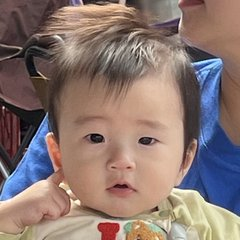
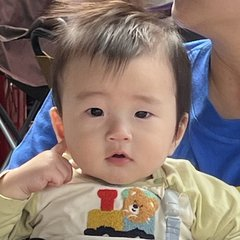
タイチャンのアイコンを引きの写真に差し替え
Claude-Session: https://claude.ai/code/session_01L2qGa8WifSKzkuSNuRSfyg

diff --git a/index.html b/index.html
@@ -10,7 +10,7 @@
 <link rel="preconnect" href="https://fonts.googleapis.com">
 <link rel="preconnect" href="https://fonts.gstatic.com" crossorigin>
 <link href="https://fonts.googleapis.com/css2?family=Dela+Gothic+One&family=M+PLUS+Rounded+1c:wght@500;700;800&display=swap" rel="stylesheet">
-<link rel="stylesheet" href="style.css?v=20261108b">
+<link rel="stylesheet" href="style.css?v=20261108c">
 </head>
 <body class="locked">
 <svg width="0" height="0" style="position:absolute" aria-hidden="true"><defs><symbol id="i-cal" viewBox="0 0 48 48"><rect x="6" y="10" width="36" height="32" rx="5" fill="#FFFDF7" stroke="#221E1A" stroke-width="3" stroke-linejoin="round" stroke-linecap="round"/><path d="M6 21v-6a5 5 0 0 1 5-5h26a5 5 0 0 1 5 5v6z" fill="#E63B2E" stroke="#221E1A" stroke-width="3" stroke-linejoin="round" stroke-linecap="round"/><path d="M16 6v8M32 6v8" stroke="#221E1A" stroke-width="3" stroke-linejoin="round" stroke-linecap="round"/><g fill="#FFC93C" stroke="#221E1A" stroke-width="3" stroke-linejoin="round" stroke-linecap="round" stroke-width="2"><rect x="12" y="26" width="6" height="5" rx="1"/><rect x="21" y="26" width="6" height="5" rx="1"/><rect x="12" y="34" width="6" height="5" rx="1"/></g><circle cx="33" cy="33" r="5" fill="#FF8FB1" stroke="#221E1A" stroke-width="3" stroke-linejoin="round" stroke-linecap="round" stroke-width="2"/></symbol><symbol id="i-bowl" viewBox="0 0 48 48"><path d="M11 24c2-9 24-9 26 0" fill="#FFFDF7" stroke="#221E1A" stroke-width="3" stroke-linejoin="round" stroke-linecap="round"/><path d="M28 21L44 6M32 22L46 10" stroke="#E63B2E" stroke-width="3" stroke-linecap="round"/><path d="M5 24h38a19 15 0 0 1-38 0z" fill="#26357A" stroke="#221E1A" stroke-width="3" stroke-linejoin="round" stroke-linecap="round"/><rect x="17" y="38" width="14" height="5" rx="2" fill="#26357A" stroke="#221E1A" stroke-width="3" stroke-linejoin="round" stroke-linecap="round"/><path d="M12 30h24" stroke="#FFFDF7" stroke-width="2.5" stroke-linecap="round"/></symbol><symbol id="i-onsen" viewBox="0 0 48 48"><path d="M7 28h34a17 13 0 0 1-34 0z" fill="#9fd3e6" stroke="#221E1A" stroke-width="3" stroke-linejoin="round" stroke-linecap="round"/><path d="M7 28h34" stroke="#221E1A" stroke-width="3" stroke-linejoin="round" stroke-linecap="round"/><g fill="none" stroke="#E63B2E" stroke-width="3.5" stroke-linecap="round"><path d="M15 22c-4-4 4-7 0-11c-2-2 0-4 0-4"/><path d="M24 22c-4-4 4-7 0-11c-2-2 0-4 0-4"/><path d="M33 22c-4-4 4-7 0-11c-2-2 0-4 0-4"/></g></symbol><symbol id="i-train" viewBox="0 0 48 48"><path d="M3 34V19a5 5 0 0 1 5-5h17c12 0 19 7 21 16c.5 3-1 4-3 4H5a2 2 0 0 1-2-2z" fill="#FFFDF7" stroke="#221E1A" stroke-width="3" stroke-linejoin="round" stroke-linecap="round"/><path d="M29 16c7 2 11 6 13 11H30z" fill="#26357A" stroke="#221E1A" stroke-width="3" stroke-linejoin="round" stroke-linecap="round" stroke-width="2"/><path d="M3 29h43" stroke="#26357A" stroke-width="3"/><g fill="#9fd3e6" stroke="#221E1A" stroke-width="3" stroke-linejoin="round" stroke-linecap="round" stroke-width="2"><rect x="8" y="19" width="6" height="5" rx="1"/><rect x="17" y="19" width="6" height="5" rx="1"/></g><path d="M2 41h44" stroke="#221E1A" stroke-width="3" stroke-linejoin="round" stroke-linecap="round"/><circle cx="12" cy="38" r="2" fill="#221E1A"/><circle cx="36" cy="38" r="2" fill="#221E1A"/></symbol><symbol id="i-van" viewBox="0 0 48 48"><path d="M3 12a4 4 0 0 1 4-4h28c3 0 5 2 6.5 4L46 22c1 2 1 3 1 5v8a3 3 0 0 1-3 3H6a3 3 0 0 1-3-3z" fill="#1c1c1f" stroke="#221E1A" stroke-width="3" stroke-linejoin="round" stroke-linecap="round"/><g fill="#5b6b80"><rect x="7" y="12" width="7" height="8" rx="1.5"/><rect x="16" y="12" width="7" height="8" rx="1.5"/><rect x="25" y="12" width="7" height="8" rx="1.5"/><path d="M35 12h2.5l5 8H35z"/></g><rect x="42" y="25" width="4" height="3" rx="1" fill="#FFC93C"/><circle cx="13" cy="38" r="5" fill="#d0d0d0" stroke="#221E1A" stroke-width="3" stroke-linejoin="round" stroke-linecap="round"/><circle cx="37" cy="38" r="5" fill="#d0d0d0" stroke="#221E1A" stroke-width="3" stroke-linejoin="round" stroke-linecap="round"/></symbol><symbol id="i-pin" viewBox="0 0 48 48"><path d="M24 45C14 33 9 27 9 19a15 15 0 0 1 30 0c0 8-5 14-15 26z" fill="#E63B2E" stroke="#221E1A" stroke-width="3" stroke-linejoin="round" stroke-linecap="round"/><circle cx="24" cy="19" r="5.5" fill="#FFFDF7" stroke="#221E1A" stroke-width="3" stroke-linejoin="round" stroke-linecap="round"/></symbol><symbol id="i-ticket" viewBox="0 0 48 48"><path d="M5 13h38v8a4 4 0 0 0 0 8v8H5v-8a4 4 0 0 0 0-8z" fill="#FFC93C" stroke="#221E1A" stroke-width="3" stroke-linejoin="round" stroke-linecap="round"/><path d="M31 15v20" stroke="#221E1A" stroke-width="3" stroke-linejoin="round" stroke-linecap="round" stroke-dasharray="3 4"/><path d="M11 21h14M11 28h10" stroke="#221E1A" stroke-width="3" stroke-linejoin="round" stroke-linecap="round"/></symbol><symbol id="i-sakura" viewBox="0 0 48 48"><path d="M24 24 C17 17 17 9 21 6 L24 9.5 L27 6 C31 9 31 17 24 24z" fill="#FF8FB1" stroke="#221E1A" stroke-width="3" stroke-linejoin="round" stroke-linecap="round" transform="rotate(0 24 24)"/><path d="M24 24 C17 17 17 9 21 6 L24 9.5 L27 6 C31 9 31 17 24 24z" fill="#FF8FB1" stroke="#221E1A" stroke-width="3" stroke-linejoin="round" stroke-linecap="round" transform="rotate(72 24 24)"/><path d="M24 24 C17 17 17 9 21 6 L24 9.5 L27 6 C31 9 31 17 24 24z" fill="#FF8FB1" stroke="#221E1A" stroke-width="3" stroke-linejoin="round" stroke-linecap="round" transform="rotate(144 24 24)"/><path d="M24 24 C17 17 17 9 21 6 L24 9.5 L27 6 C31 9 31 17 24 24z" fill="#FF8FB1" stroke="#221E1A" stroke-width="3" stroke-linejoin="round" stroke-linecap="round" transform="rotate(216 24 24)"/><path d="M24 24 C17 17 17 9 21 6 L24 9.5 L27 6 C31 9 31 17 24 24z" fill="#FF8FB1" stroke="#221E1A" stroke-width="3" stroke-linejoin="round" stroke-linecap="round" transform="rotate(288 24 24)"/><circle cx="24" cy="24" r="4" fill="#FFC93C" stroke="#221E1A" stroke-width="3" stroke-linejoin="round" stroke-linecap="round"/></symbol><symbol id="i-bolt" viewBox="0 0 48 48"><path d="M28 3L9 27h12l-4 18L39 19H27z" fill="#FFC93C" stroke="#221E1A" stroke-width="3" stroke-linejoin="round" stroke-linecap="round"/></symbol><symbol id="i-clock" viewBox="0 0 48 48"><circle cx="12" cy="11" r="6" fill="#E63B2E" stroke="#221E1A" stroke-width="3" stroke-linejoin="round" stroke-linecap="round"/><circle cx="36" cy="11" r="6" fill="#E63B2E" stroke="#221E1A" stroke-width="3" stroke-linejoin="round" stroke-linecap="round"/><circle cx="24" cy="27" r="16" fill="#FFFDF7" stroke="#221E1A" stroke-width="3" stroke-linejoin="round" stroke-linecap="round"/><path d="M24 18v10l6 4" stroke="#221E1A" stroke-width="3" stroke-linejoin="round" stroke-linecap="round"/><path d="M14 42l-3 3M34 42l3 3" stroke="#221E1A" stroke-width="3" stroke-linejoin="round" stroke-linecap="round"/></symbol><symbol id="i-gift" viewBox="0 0 48 48"><rect x="8" y="21" width="32" height="22" rx="2" fill="#E63B2E" stroke="#221E1A" stroke-width="3" stroke-linejoin="round" stroke-linecap="round"/><rect x="5" y="14" width="38" height="9" rx="2" fill="#E63B2E" stroke="#221E1A" stroke-width="3" stroke-linejoin="round" stroke-linecap="round"/><path d="M24 14v29" stroke="#FFC93C" stroke-width="6"/><path d="M24 14c-3-8-12-9-12-3c0 3 6 3 12 3c6 0 12 0 12-3c0-6-9-5-12 3z" fill="#FFC93C" stroke="#221E1A" stroke-width="3" stroke-linejoin="round" stroke-linecap="round"/></symbol><symbol id="i-onigiri" viewBox="0 0 48 48"><path d="M24 6c6 0 19 23 19 30c0 6-7 7-19 7s-19-1-19-7C5 29 18 6 24 6z" fill="#FFFDF7" stroke="#221E1A" stroke-width="3" stroke-linejoin="round" stroke-linecap="round"/><rect x="16" y="30" width="16" height="13" fill="#1F5E4A" stroke="#221E1A" stroke-width="3" stroke-linejoin="round" stroke-linecap="round"/></symbol><symbol id="i-people" viewBox="0 0 48 48"><circle cx="16" cy="15" r="7" fill="#FF8FB1" stroke="#221E1A" stroke-width="3" stroke-linejoin="round" stroke-linecap="round"/><circle cx="33" cy="17" r="6" fill="#FFC93C" stroke="#221E1A" stroke-width="3" stroke-linejoin="round" stroke-linecap="round"/><path d="M4 42c0-9 5-15 12-15s12 6 12 15z" fill="#E63B2E" stroke="#221E1A" stroke-width="3" stroke-linejoin="round" stroke-linecap="round"/><path d="M23 42c1-8 5-13 10-13s10 5 10 13z" fill="#26357A" stroke="#221E1A" stroke-width="3" stroke-linejoin="round" stroke-linecap="round"/></symbol><symbol id="i-bear" viewBox="0 0 48 48"><circle cx="12" cy="13" r="6" fill="#C98B5A" stroke="#221E1A" stroke-width="3" stroke-linejoin="round" stroke-linecap="round"/><circle cx="36" cy="13" r="6" fill="#C98B5A" stroke="#221E1A" stroke-width="3" stroke-linejoin="round" stroke-linecap="round"/><circle cx="24" cy="27" r="16" fill="#C98B5A" stroke="#221E1A" stroke-width="3" stroke-linejoin="round" stroke-linecap="round"/><ellipse cx="24" cy="32" rx="7" ry="5" fill="#FFFDF7" stroke="#221E1A" stroke-width="3" stroke-linejoin="round" stroke-linecap="round" stroke-width="2"/><circle cx="18" cy="24" r="2" fill="#221E1A"/><circle cx="30" cy="24" r="2" fill="#221E1A"/><circle cx="24" cy="30.5" r="2" fill="#221E1A"/></symbol><symbol id="i-beer" viewBox="0 0 48 48"><path d="M32 18h4a6 6 0 0 1 0 12h-4" fill="none" stroke="#221E1A" stroke-width="3" stroke-linejoin="round" stroke-linecap="round"/><rect x="9" y="14" width="23" height="29" rx="3" fill="#FFC93C" stroke="#221E1A" stroke-width="3" stroke-linejoin="round" stroke-linecap="round"/><path d="M9 18c-3 0-4-4-1-6c0-4 5-6 8-3c2-3 8-3 10 0c3-2 8 0 7 4c2 2 0 5-2 5z" fill="#FFFDF7" stroke="#221E1A" stroke-width="3" stroke-linejoin="round" stroke-linecap="round"/><path d="M16 26v11M24 26v11" stroke="#FFFDF7" stroke-width="3" stroke-linecap="round"/></symbol><symbol id="i-fish" viewBox="0 0 48 48"><path d="M6 24c6-10 22-12 30 0c-8 12-24 10-30 0z" fill="#7FA3FF" stroke="#221E1A" stroke-width="3" stroke-linejoin="round" stroke-linecap="round"/><path d="M35 24l9-8v16z" fill="#7FA3FF" stroke="#221E1A" stroke-width="3" stroke-linejoin="round" stroke-linecap="round"/><circle cx="15" cy="22" r="2.2" fill="#221E1A"/><path d="M22 18c2 4 2 8 0 12" stroke="#221E1A" stroke-width="3" stroke-linejoin="round" stroke-linecap="round" stroke-width="2"/></symbol><symbol id="i-chicken" viewBox="0 0 48 48"><path d="M30 30l9 9" stroke="#FFFDF7" stroke-width="7" stroke-linecap="round"/><path d="M30 30l9 9" stroke="#221E1A" stroke-width="3" stroke-linejoin="round" stroke-linecap="round" stroke-width="2" fill="none"/><circle cx="40" cy="38" r="3.5" fill="#FFFDF7" stroke="#221E1A" stroke-width="3" stroke-linejoin="round" stroke-linecap="round" stroke-width="2"/><circle cx="37" cy="42" r="3.5" fill="#FFFDF7" stroke="#221E1A" stroke-width="3" stroke-linejoin="round" stroke-linecap="round" stroke-width="2"/><path d="M8 20c0-9 9-14 17-11c8 3 11 12 7 19c-4 7-13 8-19 4c-4-3-5-7-5-12z" fill="#E89A3C" stroke="#221E1A" stroke-width="3" stroke-linejoin="round" stroke-linecap="round"/><path d="M14 16l3 2M20 13l2 3M13 23l3 1" stroke="#B8651E" stroke-width="2.5" stroke-linecap="round"/></symbol><symbol id="i-hotel" viewBox="0 0 48 48"><rect x="9" y="8" width="30" height="35" rx="2" fill="#FFFDF7" stroke="#221E1A" stroke-width="3" stroke-linejoin="round" stroke-linecap="round"/><g fill="#26357A"><rect x="14" y="13" width="6" height="6" rx="1"/><rect x="28" y="13" width="6" height="6" rx="1"/><rect x="14" y="23" width="6" height="6" rx="1"/><rect x="28" y="23" width="6" height="6" rx="1"/></g><path d="M19 43v-8h10v8" fill="#E63B2E" stroke="#221E1A" stroke-width="3" stroke-linejoin="round" stroke-linecap="round"/><path d="M4 43h40" stroke="#221E1A" stroke-width="3" stroke-linejoin="round" stroke-linecap="round"/></symbol><symbol id="i-cracker" viewBox="0 0 48 48"><path d="M6 42L16 14l18 18z" fill="#FFC93C" stroke="#221E1A" stroke-width="3" stroke-linejoin="round" stroke-linecap="round"/><path d="M11 28l9 9M14 20l13 13" stroke="#E63B2E" stroke-width="3.5"/><g stroke="#221E1A" stroke-width="3" stroke-linejoin="round" stroke-linecap="round" fill="none"><path d="M26 10c3-3 6 0 9-3"/><path d="M38 20c3-1 4 2 7 1"/></g><circle cx="40" cy="9" r="2.5" fill="#FF8FB1"/><circle cx="31" cy="4" r="2" fill="#E63B2E"/><circle cx="44" cy="30" r="2" fill="#7FA3FF"/><rect x="22" y="3" width="3" height="6" fill="#26357A" transform="rotate(30 23 6)"/></symbol><symbol id="i-bulb" viewBox="0 0 48 48"><path d="M24 5a13 13 0 0 1 8 23c-2 2-2 4-2 6H18c0-2 0-4-2-6A13 13 0 0 1 24 5z" fill="#FFC93C" stroke="#221E1A" stroke-width="3" stroke-linejoin="round" stroke-linecap="round"/><rect x="17" y="34" width="14" height="8" rx="2" fill="#bdbdbd" stroke="#221E1A" stroke-width="3" stroke-linejoin="round" stroke-linecap="round"/><path d="M20 22l4 4l4-4" stroke="#221E1A" stroke-width="3" stroke-linejoin="round" stroke-linecap="round" fill="none"/></symbol><symbol id="i-list" viewBox="0 0 48 48"><rect x="9" y="8" width="30" height="36" rx="4" fill="#FFFDF7" stroke="#221E1A" stroke-width="3" stroke-linejoin="round" stroke-linecap="round"/><rect x="17" y="4" width="14" height="8" rx="2" fill="#E63B2E" stroke="#221E1A" stroke-width="3" stroke-linejoin="round" stroke-linecap="round"/><path d="M15 21l3 3l5-6M15 32l3 3l5-6" stroke="#1F5E4A" stroke-width="3.5" stroke-linecap="round" stroke-linejoin="round" fill="none"/><path d="M27 22h7M27 33h7" stroke="#221E1A" stroke-width="3" stroke-linejoin="round" stroke-linecap="round"/></symbol><symbol id="i-suitcase" viewBox="0 0 48 48"><path d="M18 14v-5h12v5" fill="none" stroke="#221E1A" stroke-width="3" stroke-linejoin="round" stroke-linecap="round"/><rect x="5" y="14" width="38" height="27" rx="5" fill="#E63B2E" stroke="#221E1A" stroke-width="3" stroke-linejoin="round" stroke-linecap="round"/><path d="M15 14v27M33 14v27" stroke="#FFC93C" stroke-width="4"/><path d="M15 14v27M33 14v27" stroke="#221E1A" stroke-width="3" stroke-linejoin="round" stroke-linecap="round" stroke-width="1.5" fill="none"/><circle cx="12" cy="44" r="2.5" fill="#221E1A"/><circle cx="36" cy="44" r="2.5" fill="#221E1A"/></symbol><symbol id="i-car" viewBox="0 0 48 48"><path d="M6 30c0-3 2-5 5-5l5-9c1-2 3-3 5-3h10c2 0 4 1 5 3l4 9c3 0 6 2 6 5v6H6z" fill="#E63B2E" stroke="#221E1A" stroke-width="3" stroke-linejoin="round" stroke-linecap="round"/><path d="M18 17h12l3 8H15z" fill="#9fd3e6" stroke="#221E1A" stroke-width="3" stroke-linejoin="round" stroke-linecap="round" stroke-width="2"/><circle cx="15" cy="36" r="5" fill="#333" stroke="#221E1A" stroke-width="3" stroke-linejoin="round" stroke-linecap="round"/><circle cx="35" cy="36" r="5" fill="#333" stroke="#221E1A" stroke-width="3" stroke-linejoin="round" stroke-linecap="round"/></symbol></defs></svg>
@@ -282,6 +282,6 @@
 </div>
 
 <canvas id="confetti" aria-hidden="true"></canvas>
-<script src="app.js?v=20261108b"></script>
+<script src="app.js?v=20261108c"></script>
 </body>
 </html>
